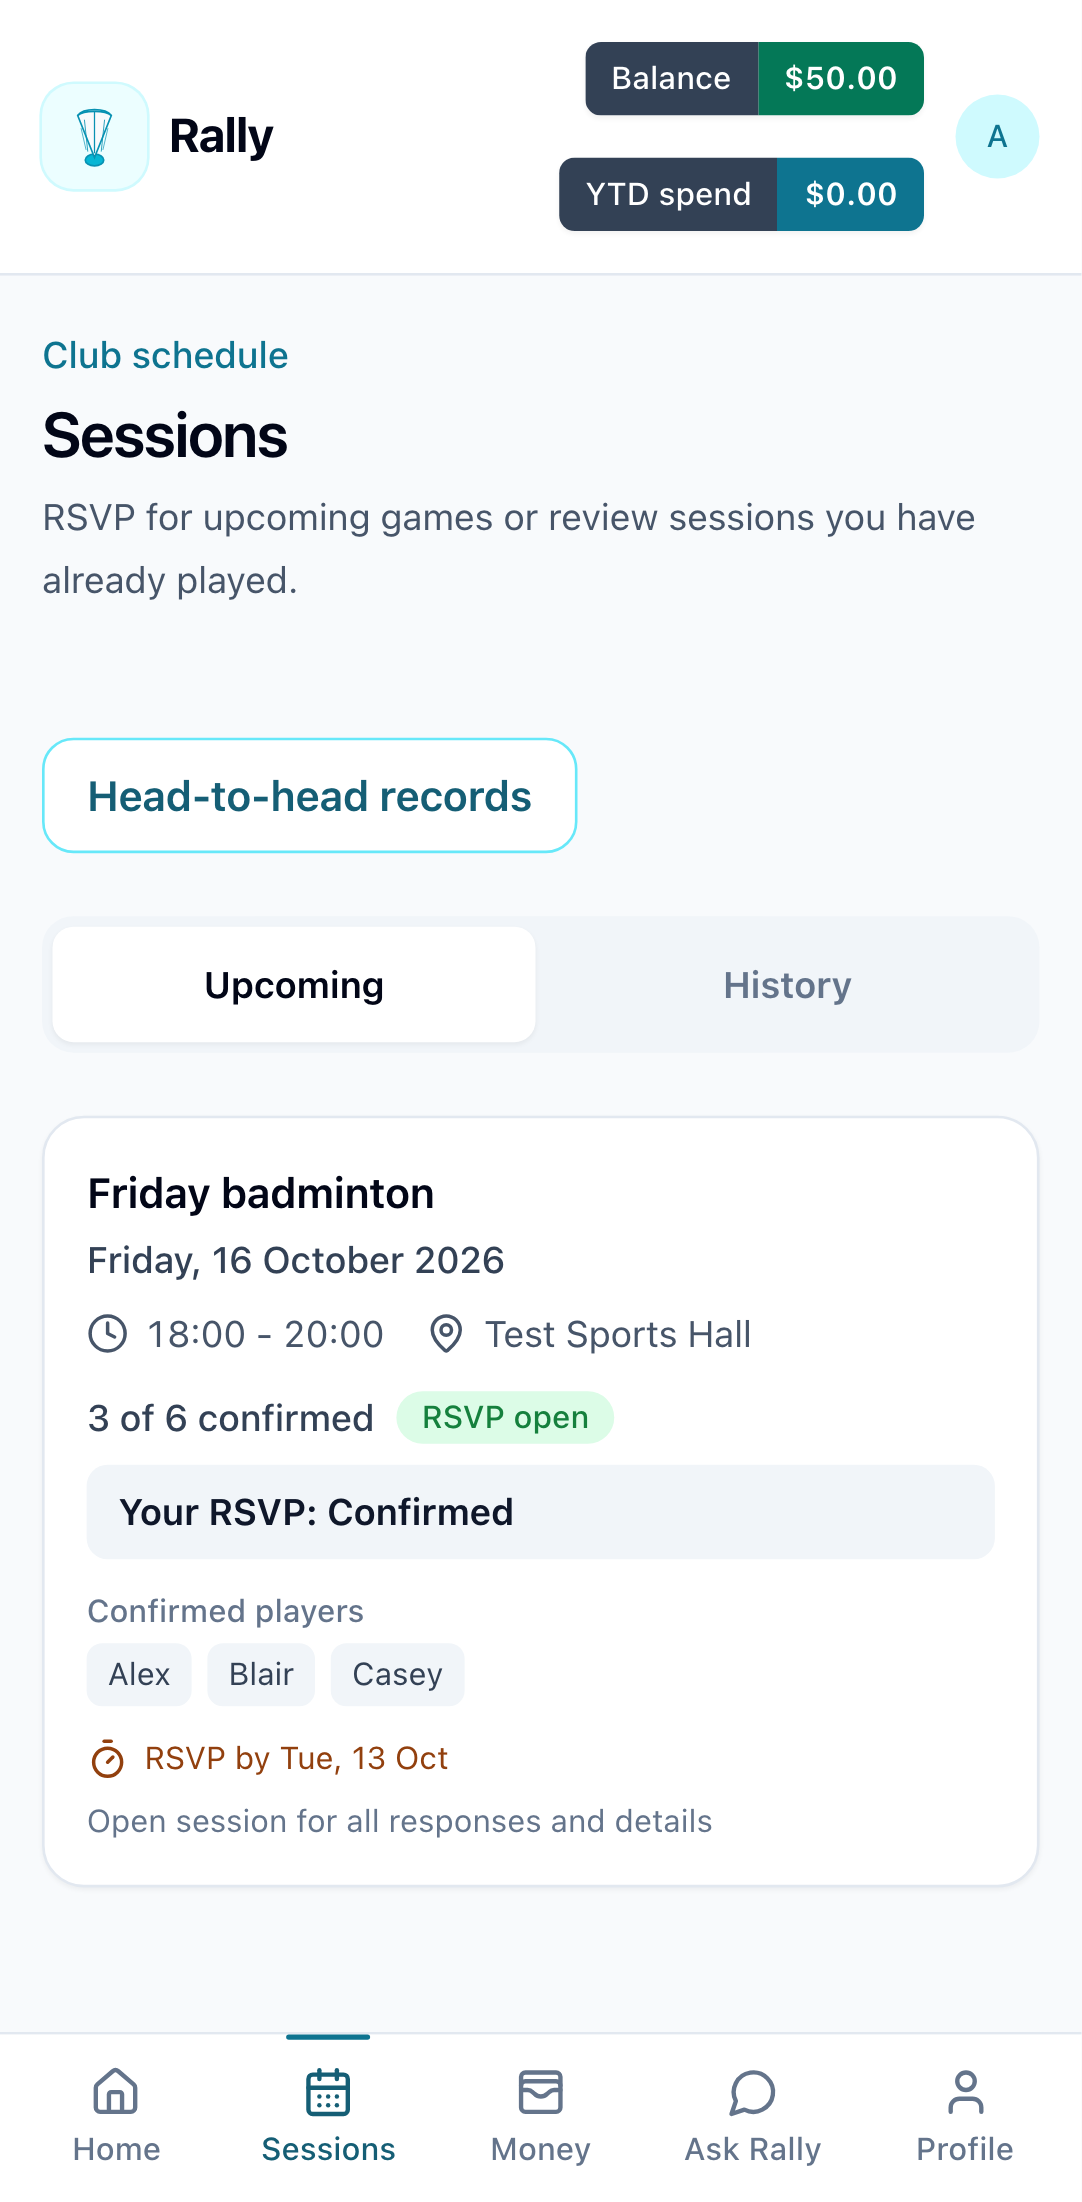
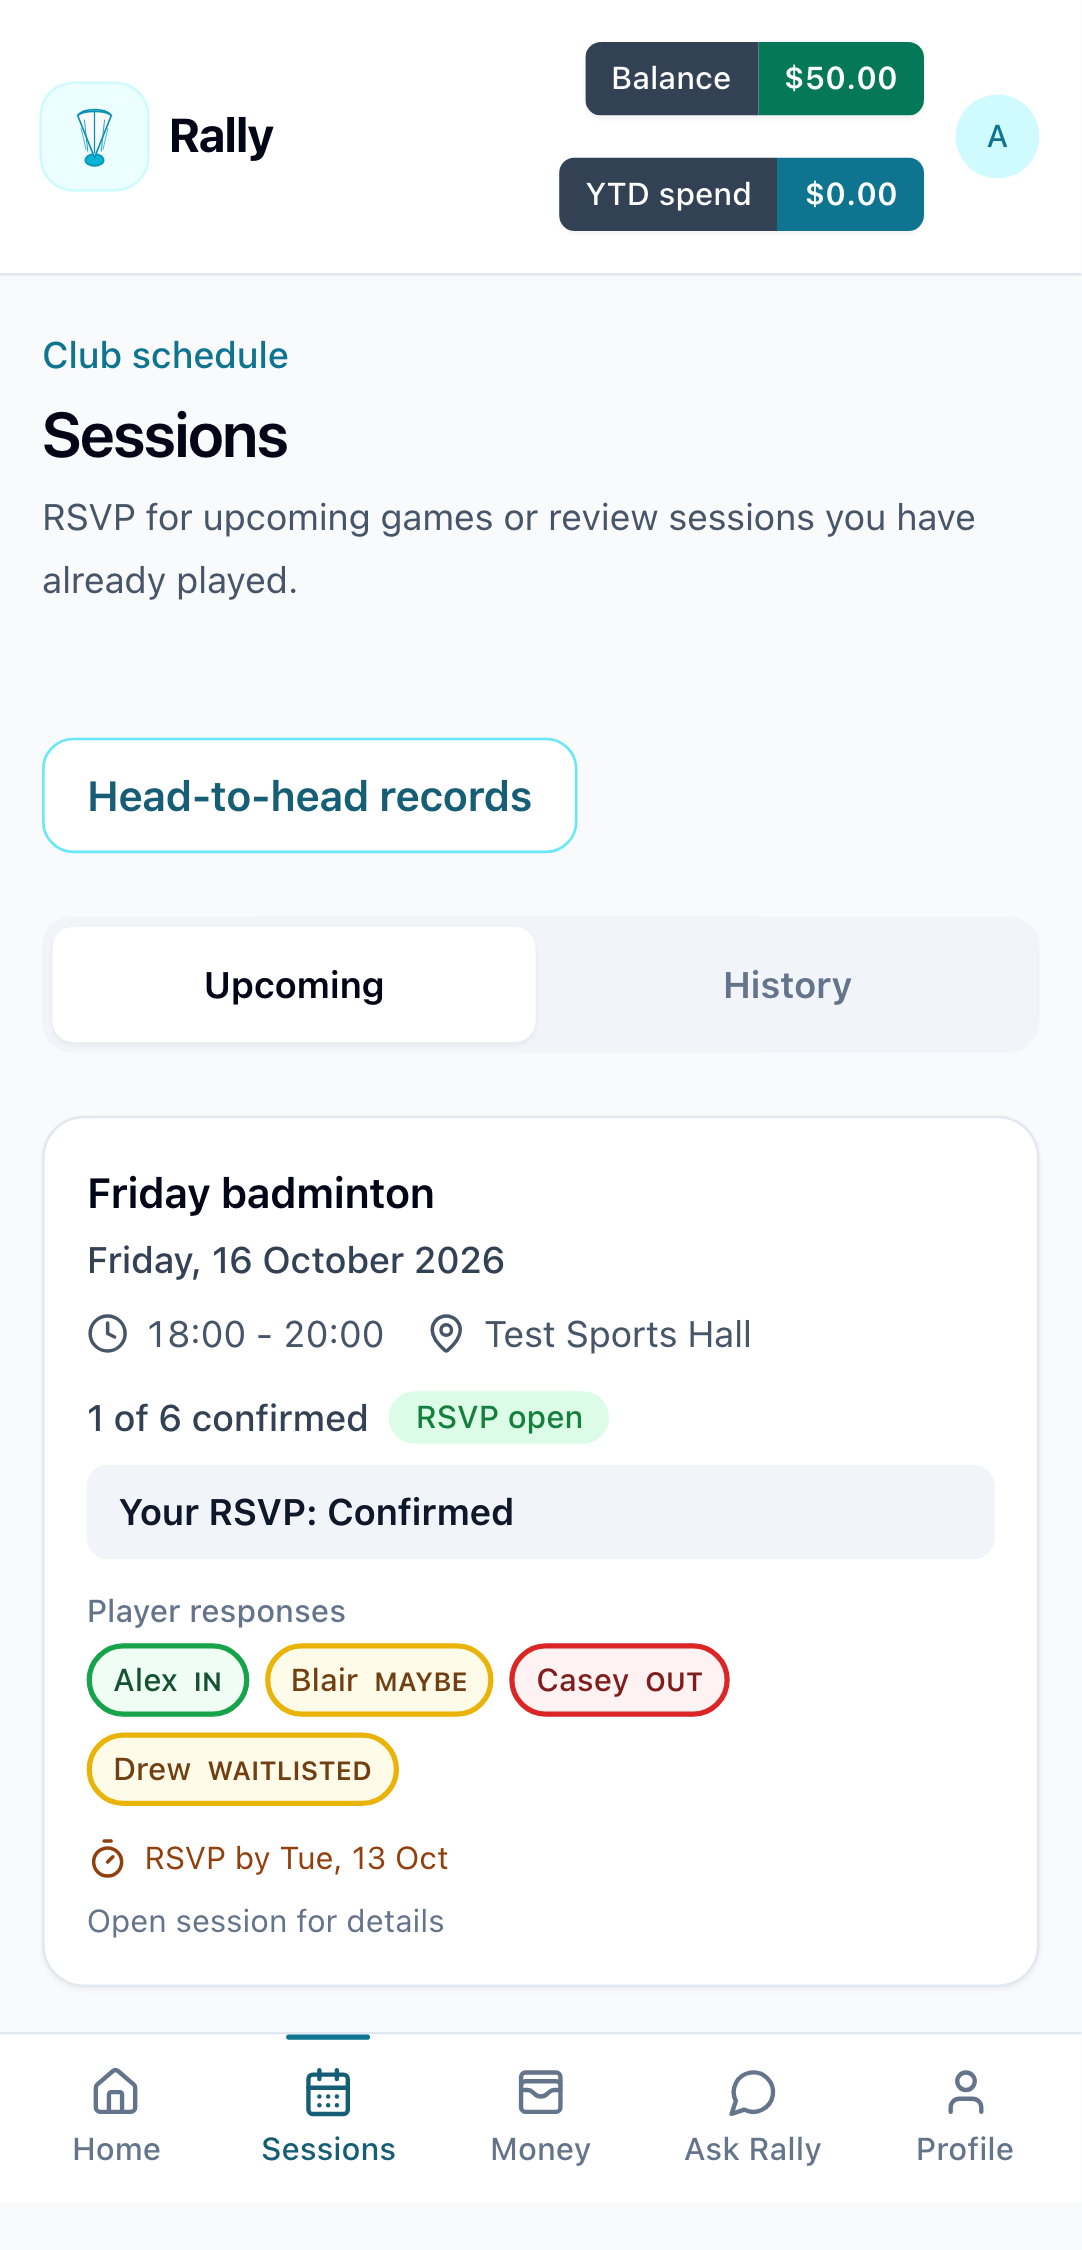
fix(sessions): retain every RSVP with coloured name borders

diff --git a/frontend/src/components/sessions/PlayerRSVPChips.tsx b/frontend/src/components/sessions/PlayerRSVPChips.tsx
@@ -1,21 +1,32 @@
-import type { RSVP } from '../../types';
+import type { RSVP, RSVPStatus } from '../../types';
 import { displayName } from '../../utils/members';
 
+const responses: Record<RSVPStatus, { label: string; className: string }> = {
+  in: { label: 'IN', className: 'border-green-600 bg-green-50 text-green-900' },
+  maybe: { label: 'MAYBE', className: 'border-yellow-500 bg-yellow-50 text-yellow-900' },
+  out: { label: 'OUT', className: 'border-red-600 bg-red-50 text-red-900' },
+  waitlisted: { label: 'WAITLISTED', className: 'border-yellow-500 bg-yellow-50 text-yellow-900' },
+};
+const statusOrder: RSVPStatus[] = ['in', 'maybe', 'out', 'waitlisted'];
+
 export default function PlayerRSVPChips({ rsvps }: { rsvps: RSVP[] }) {
-  const confirmed = rsvps.filter(rsvp => rsvp.status === 'in');
-  if (confirmed.length === 0) {
-    return <p className="text-sm text-slate-500">No confirmed players yet</p>;
+  if (rsvps.length === 0) {
+    return <p className="text-sm text-slate-500">No RSVPs yet</p>;
   }
 
   return (
     <div>
-      <p className="mb-1 text-xs font-medium text-slate-500">Confirmed players</p>
-      <ul aria-label="Confirmed players" className="flex flex-wrap gap-1.5">
-        {confirmed.map(rsvp => (
-          <li key={rsvp.id} className="max-w-full break-words rounded-md bg-slate-100 px-2 py-1 text-xs text-slate-700">
-            {displayName(rsvp.user) || 'Player'}
-          </li>
-        ))}
+      <p className="mb-1 text-xs font-medium text-slate-500">Player responses</p>
+      <ul aria-label="Player responses" className="flex flex-wrap gap-1.5">
+        {statusOrder.flatMap(status => rsvps.filter(rsvp => rsvp.status === status)).map(rsvp => {
+          const { label, className } = responses[rsvp.status];
+          return (
+            <li key={rsvp.id} className={`max-w-full break-words rounded-full border-2 px-2 py-1 text-xs ${className}`}>
+              <span className="font-medium">{displayName(rsvp.user) || 'Player'}</span>
+              <span className="ml-1.5 text-[10px] font-semibold">{label}</span>
+            </li>
+          );
+        })}
       </ul>
     </div>
   );

diff --git a/frontend/e2e/sessions.spec.ts b/frontend/e2e/sessions.spec.ts
@@ -90,6 +90,26 @@ test('compact cards show my response and a long confirmed roster without overflo
   await page.goto('/sessions');
   await expect(page.getByText('Your RSVP: Waitlisted (#1)')).toBeVisible();
   await expect(page.getByText('Full · 1 waiting')).toBeVisible();
-  await expect(page.getByRole('list', { name: 'Confirmed players' }).getByRole('listitem')).toHaveCount(6);
+  await expect(page.getByRole('list', { name: 'Player responses' }).getByRole('listitem')).toHaveCount(7);
+  expect(await page.evaluate(() => document.documentElement.scrollWidth <= window.innerWidth)).toBe(true);
+});
+
+test('cards retain IN, MAYBE, OUT and waitlisted names with coloured borders', async ({ page }) => {
+  const rsvps: RSVP[] = (['in', 'maybe', 'out', 'waitlisted'] as const).map((status, i) => ({
+    id: `r${i}`, session_id: session.id, user_id: `player-${i}`, status,
+    user: { ...member, id: `player-${i}`, nickname: ['Alex', 'Blair', 'Casey', 'Drew'][i] },
+    rsvp_timestamp: NOW, created_at: NOW, updated_at: NOW, is_late_rsvp: false, added_by_admin: false,
+  }));
+  await page.route(/\/api\/sessions(?:\?.*)?$/, route => json(route, [{ ...session, rsvps }]));
+  await page.goto('/dashboard');
+  const responses = page.getByRole('list', { name: 'Player responses' });
+  for (const [name, label, colour] of [
+    ['Alex', 'IN', 'rgb(22, 163, 74)'], ['Blair', 'MAYBE', 'rgb(234, 179, 8)'],
+    ['Casey', 'OUT', 'rgb(220, 38, 38)'], ['Drew', 'WAITLISTED', 'rgb(234, 179, 8)'],
+  ]) {
+    const chip = responses.getByRole('listitem').filter({ hasText: name });
+    await expect(chip.getByText(label, { exact: true })).toBeVisible();
+    await expect(chip).toHaveCSS('border-color', colour);
+  }
   expect(await page.evaluate(() => document.documentElement.scrollWidth <= window.innerWidth)).toBe(true);
 });

diff --git a/frontend/src/components/sessions/SessionCard.test.tsx b/frontend/src/components/sessions/SessionCard.test.tsx
@@ -118,13 +118,15 @@ describe('SessionCard Component', () => {
     expect(screen.getByText(`Your RSVP: ${label}`)).toBeInTheDocument();
   });
 
-  it('keeps confirmed names and moves other players to session details', () => {
+  it('keeps every player response visible on the card', () => {
     const confirmed = baseSession.rsvps![0];
     const absent = { ...confirmed, id: 'r2', user_id: 'u2', status: 'out' as const,
       user: { ...confirmed.user!, id: 'u2', nickname: 'Absent player' } };
     render(<MemoryRouter><SessionCard session={{ ...baseSession, rsvps: [confirmed, absent] }} currentUserId="u3" /></MemoryRouter>);
-    expect(screen.getByRole('list', { name: 'Confirmed players' })).toHaveTextContent('Player');
-    expect(screen.queryByText('Absent player')).not.toBeInTheDocument();
+    expect(screen.getByRole('list', { name: 'Player responses' })).toHaveTextContent('Player');
+    expect(screen.getByText('Absent player')).toBeInTheDocument();
+    expect(screen.getByText('OUT')).toBeInTheDocument();
+    expect(screen.getByText('IN')).toBeInTheDocument();
     expect(screen.getByText('Your RSVP: Not responded')).toBeInTheDocument();
   });
 

diff --git a/frontend/src/components/sessions/SessionCard.tsx b/frontend/src/components/sessions/SessionCard.tsx
@@ -70,7 +70,7 @@ export default function SessionCard({ session, venueName, courtNumber, timeForma
         </p>
 
         <div className="mt-3">
-          <PlayerRSVPChips rsvps={confirmedRsvps} />
+          <PlayerRSVPChips rsvps={session.rsvps ?? []} />
         </div>
         {!isDeadlinePassed && !isCancelled && (
           <p className="mt-3 flex items-start gap-1.5 text-xs text-amber-800">
@@ -78,7 +78,7 @@ export default function SessionCard({ session, venueName, courtNumber, timeForma
             <span>RSVP by {formatInTimeZone(session.rsvp_deadline, 'Australia/Sydney', 'EEE, d MMM')}</span>
           </p>
         )}
-        <p className="mt-2 text-xs text-slate-500">Open session for all responses and details</p>
+        <p className="mt-2 text-xs text-slate-500">Open session for details</p>
       </Link>
     </article>
   );
